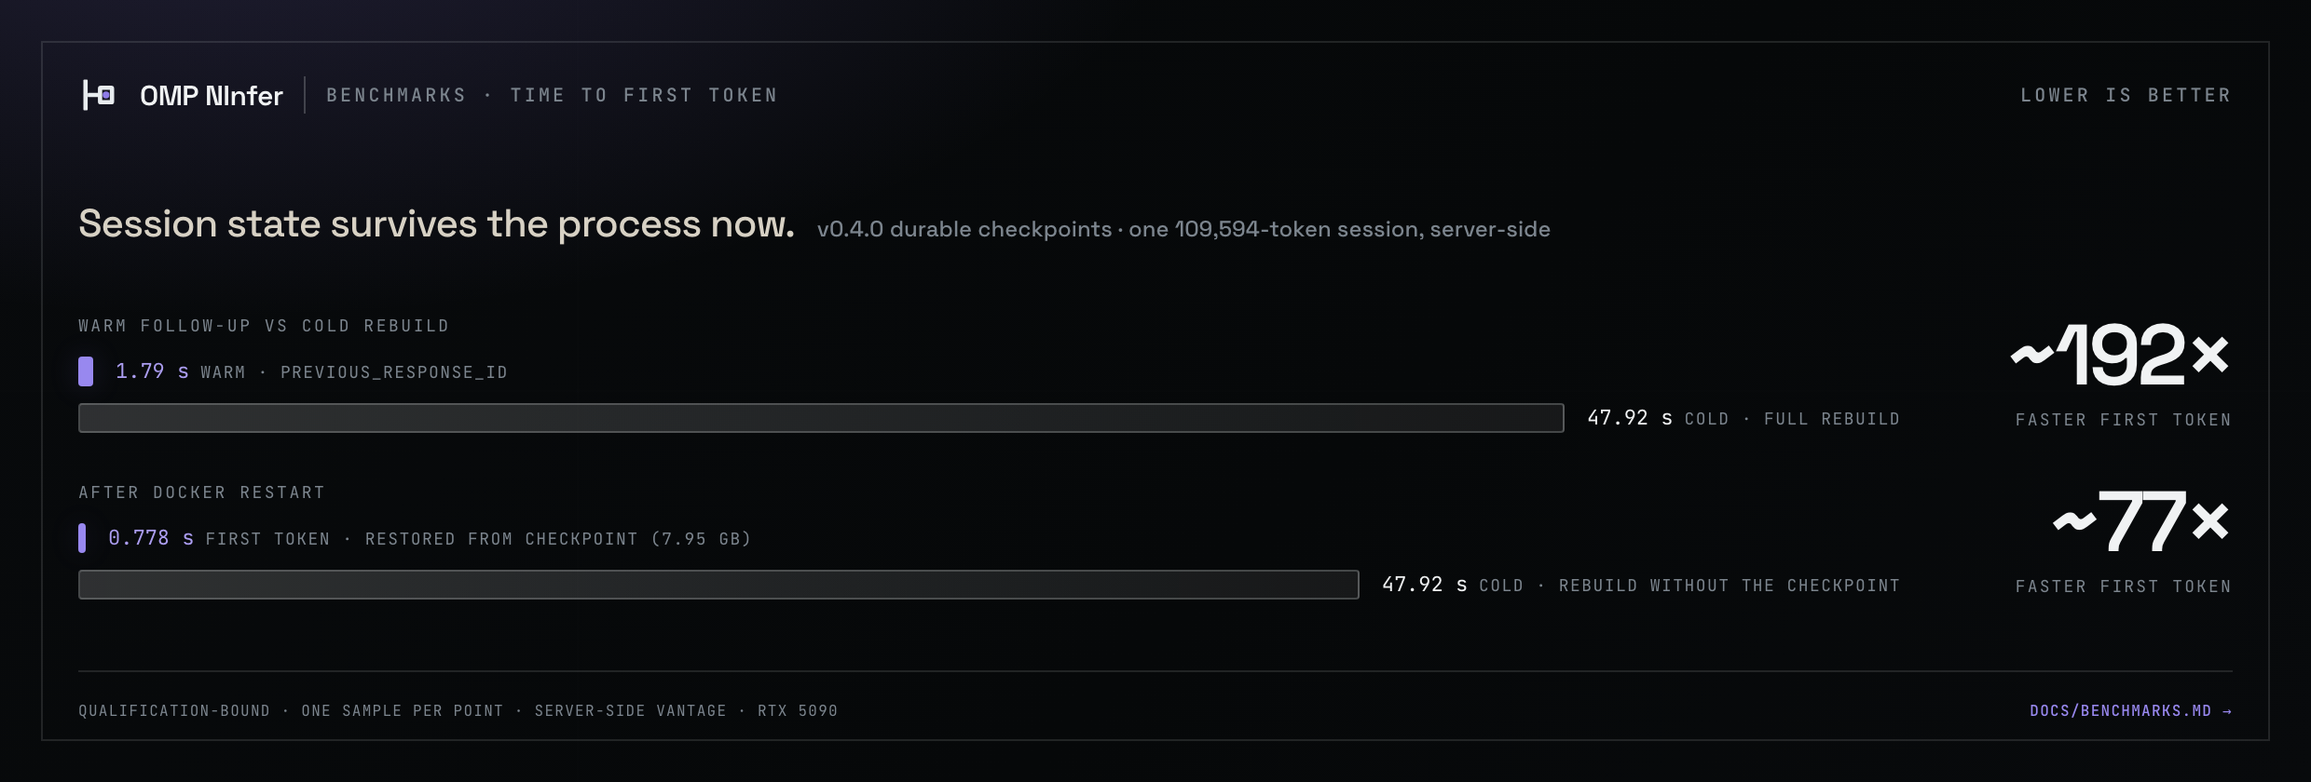
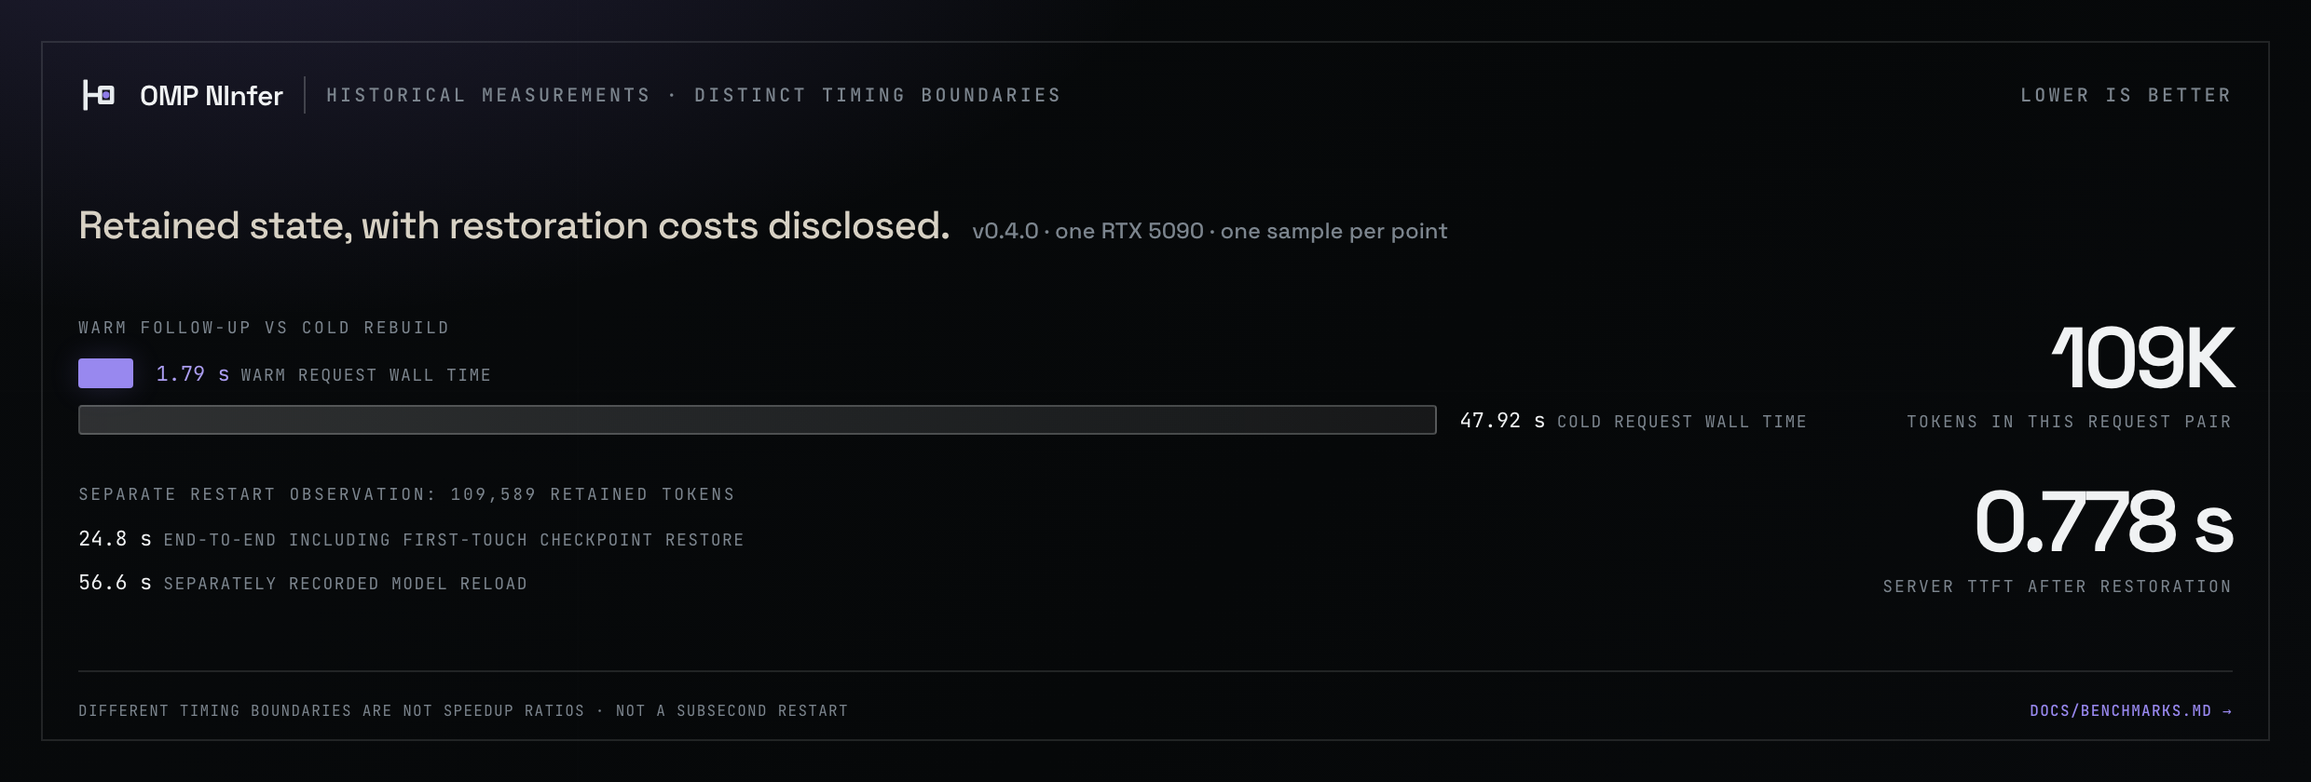
fix(docs): correct upstream issue links, site retrieval labels, and chart renders (#153)

diff --git a/site/index.html b/site/index.html
@@ -115,7 +115,7 @@
         <p class="eyebrow">Measured, not estimated</p>
         <h2>Three lanes, each bound to exact bytes and a receipt.</h2>
       </div>
-      <p>Every number names its release, hardware lane, and measurement boundary. Retrieval figures are fresh-process cold starts; decode figures are the lane's own qualification gate, never an ordinary in-process cached follow-up.</p>
+      <p>Every number names its release, hardware lane, and measurement boundary. RTX 5090 retrieval is a cold start that reused no cached prefix; native retrieval figures are each lane's long-session gate. Decode figures are the lane's own qualification gate, never an ordinary in-process cached follow-up.</p>
     </div>
     <table class="measured">
       <thead>
@@ -130,13 +130,13 @@
         </tr>
         <tr>
           <td class="first"><span class="lane">RTX 4090</span><span class="tag">native Windows 11 · runtime <span class="nowrap">v0.8.0-qwen38-4090-beta.2</span> · DFlash2 draft window 7 · INT8 KV · C1 · model 81f924d4</span></td>
-          <td data-label="Exact 130,048-token retrieval"><span class="num">83.54<small>s</small></span><span class="sub">cold start</span></td>
+          <td data-label="Exact 130,048-token retrieval"><span class="num">83.54<small>s</small></span><span class="sub">long-session gate</span></td>
           <td data-label="Decode"><span class="num">254.59<small>tok/s</small></span><span class="sub">C1 decode; 83.88% DFlash2 acceptance, 2,133.04 tok/s prefill</span></td>
           <td class="last" data-label="Receipt"><a class="receipt-link" href="https://github.com/alphastorm/omp-ninfer/blob/v0.17.0/releases/v0.17.0/qualification/rtx4090.json">rtx4090.json · 2026-11-03</a></td>
         </tr>
         <tr>
           <td class="first"><span class="lane">RTX 3090</span><span class="tag">native Windows 11 · runtime <span class="nowrap">v0.8.0-qwen38-3090-beta.2</span> · DFlash2 draft window 7 · INT8 KV · C2 shared pool · 350 W serving cap · model 81f924d4</span></td>
-          <td data-label="Exact 130,048-token retrieval"><span class="num">188.94<small>s</small></span><span class="sub">cold start</span></td>
+          <td data-label="Exact 130,048-token retrieval"><span class="num">188.94<small>s</small></span><span class="sub">long-session gate</span></td>
           <td data-label="Decode"><span class="num">148.70<small>tok/s</small></span><span class="sub">C1 decode; 83.88% DFlash2 acceptance, 978.72 tok/s prefill</span></td>
           <td class="last" data-label="Receipt"><a class="receipt-link" href="https://github.com/alphastorm/omp-ninfer/blob/v0.17.0/releases/v0.17.0/qualification/rtx3090.json">rtx3090.json · 2026-11-04</a></td>
         </tr>

diff --git a/assets/fonts.css b/assets/fonts.css
@@ -1,0 +1,34 @@
+/* Artwork fonts: the site's first-party latin subsets (site/fonts, OFL-1.1) at the four weights the
+   artwork uses, so headless renders need no network. */
+@font-face {
+  font-family: "Space Grotesk";
+  font-style: normal;
+  font-weight: 500;
+  font-display: swap;
+  src: url("../site/fonts/space-grotesk-latin.woff2") format("woff2");
+  unicode-range: U+0000-00FF, U+0131, U+0152-0153, U+02BB-02BC, U+02C6, U+02DA, U+02DC, U+0304, U+0308, U+0329, U+2000-206F, U+20AC, U+2122, U+2191, U+2193, U+2212, U+2215, U+FEFF, U+FFFD;
+}
+@font-face {
+  font-family: "Space Grotesk";
+  font-style: normal;
+  font-weight: 600;
+  font-display: swap;
+  src: url("../site/fonts/space-grotesk-latin.woff2") format("woff2");
+  unicode-range: U+0000-00FF, U+0131, U+0152-0153, U+02BB-02BC, U+02C6, U+02DA, U+02DC, U+0304, U+0308, U+0329, U+2000-206F, U+20AC, U+2122, U+2191, U+2193, U+2212, U+2215, U+FEFF, U+FFFD;
+}
+@font-face {
+  font-family: "JetBrains Mono";
+  font-style: normal;
+  font-weight: 400;
+  font-display: swap;
+  src: url("../site/fonts/jetbrains-mono-latin.woff2") format("woff2");
+  unicode-range: U+0000-00FF, U+0131, U+0152-0153, U+02BB-02BC, U+02C6, U+02DA, U+02DC, U+0304, U+0308, U+0329, U+2000-206F, U+20AC, U+2122, U+2191, U+2193, U+2212, U+2215, U+FEFF, U+FFFD;
+}
+@font-face {
+  font-family: "JetBrains Mono";
+  font-style: normal;
+  font-weight: 500;
+  font-display: swap;
+  src: url("../site/fonts/jetbrains-mono-latin.woff2") format("woff2");
+  unicode-range: U+0000-00FF, U+0131, U+0152-0153, U+02BB-02BC, U+02C6, U+02DA, U+02DC, U+0304, U+0308, U+0329, U+2000-206F, U+20AC, U+2122, U+2191, U+2193, U+2212, U+2215, U+FEFF, U+FFFD;
+}

diff --git a/assets/chart-warm-cold.html b/assets/chart-warm-cold.html
@@ -12,7 +12,7 @@
   .main { display: grid; grid-template-rows: auto auto auto; gap: 26px; align-content: center; }
   .title { font-size: 21px; font-weight: 500; letter-spacing: -.025em; color: var(--warm); margin-bottom: 10px; }
   .title span { color: var(--muted); font-size: 12px; margin-left: 12px; font-weight: 400; letter-spacing: 0; }
-  .session { display: grid; grid-template-columns: 1fr 150px; gap: 28px; align-items: center; }
+  .session { display: grid; grid-template-columns: 1fr 200px; gap: 28px; align-items: center; }
   .bars { display: grid; gap: 9px; }
   .label { color: var(--muted); font-family: "JetBrains Mono", monospace; font-size: 9px; letter-spacing: .14em; text-transform: uppercase; margin-bottom: 2px; }
   .row { display: flex; align-items: center; gap: 12px; }

diff --git a/assets/lockups.html b/assets/lockups.html
@@ -3,8 +3,7 @@
 <head>
 <title>OMP NInfer — lockups</title>
 <meta charset="utf-8">
-<link rel="preconnect" href="https://fonts.googleapis.com">
-<link href="https://fonts.googleapis.com/css2?family=Space+Grotesk:wght@500;600&family=JetBrains+Mono:wght@400;500&display=swap" rel="stylesheet">
+<link rel="stylesheet" href="fonts.css">
 <style>
   * { margin: 0; padding: 0; box-sizing: border-box; }
   body { background: #060809; font-family: 'Space Grotesk', system-ui, sans-serif; }

diff --git a/assets/brand.css b/assets/brand.css
@@ -1,4 +1,4 @@
-@import url("https://fonts.googleapis.com/css2?family=JetBrains+Mono:wght@400;500&family=Space+Grotesk:wght@500;600&display=swap");
+@import url("fonts.css");
 
 :root {
   --ground: #060809;

diff --git a/docs/UPSTREAM.md b/docs/UPSTREAM.md
@@ -13,7 +13,7 @@ watch manifest is [`upstream-watch.json`](../upstream-watch.json); the watch too
 | Component / upstream | Current position (v0.17.0) | Upstream base / watch head | Evidence and notes |
 | --- | --- | --- | --- |
 | `can1357/oh-my-pi` (client) | Unmodified upstream **OMP 18.18.6**, source `9058ab9d229663e229e2867824ba6df6f21e9e59`, tree `fd379b65368a20c7648d97f2c2b99cc03e019254`, release `439766193` | Upstream release [`v18.18.6`](https://github.com/can1357/oh-my-pi/releases/tag/v18.18.6) (2026-11-09) | Pins `tokenizer: qwen3` on opaque `q38-ninfer` model entries while canonical `qwen3.8-27b` entries retain inferred `qwen3`, preserves explicit `[low, medium, xhigh]` effort lists with `high`→`medium` and `off`→`low` clamps, disables automatic updates and the setup wizard explicitly in `fail-closed.yml`, retains Qwen's exact-loop guard with a 1,024-character floor on short newline-spanning cycles, and keeps default async compaction (`19,660` reserve, strict `>111,412` trigger, `13,107` unset-reserve summary cap); accepted across all five `v0.17.0` routes (`PASS 31/31 blocks on 076bbe4f, 2026-11-10`); see [client setup](QUICKSTART.md#omp-18186-client), [release notes](../releases/v0.17.0/NINFER_RELEASE_NOTES.md), and [18.18.6 review](measurements/2026-11-10-omp-18186-client-upgrade-review.json). |
-| `alphastorm/ninfer` (RTX 5090 container runtime) | `v0.7.0-qwen38-5090-beta.6`, frozen engine source `e0971faf221204047d5a4ed834e4e298740cee17` ([fork PR #101](https://github.com/alphastorm/ninfer/pull/101)) | `Neroued/ninfer` master `64d10fbf9f8e6bfc79ab0570b94674c5b9997929` | Image `7a19576b` (reused base `28857182`), server `dc86e101`, archive `d7f1ca4f` (`580,026,014` B), model `81f924d4`, kept profile `qwen38-5090-v0.13.0` (`751d22dc`), DFlash2 draft window 7 (`--lm-head-draft`), BF16 KV (146,368 automatic tokens), two requests in flight, isolated host schema 3 checkpoint directory `checkpoints-v017` mounted at `/checkpoints-v013` (strict origin auth, bounded resume/fresh admission with per-rotation fresh-window accounting for upstream [#434](https://github.com/Neroued/ninfer/issues/434), durable pressure-work waits, byte-proven durable-generation Host reclaim [#78](https://github.com/alphastorm/ninfer/issues/78), export-retirement reservation [#68](https://github.com/alphastorm/ninfer/pull/68), non-blocking export with Host `StateImage` materialization `EXP-105`), serving robustness ([#440](https://github.com/Neroued/ninfer/issues/440)/[#441](https://github.com/alphastorm/ninfer/issues/441)/[#446](https://github.com/Neroued/ninfer/issues/446)), host-side NFC/frontend rendering, deterministic bounded RDC builds (`664` build artifacts and all `3` package outputs bit-identical across a same-path double build; `12/12` RC phases in [`runtime-rc.json`](../releases/v0.17.0/qualification/runtime-rc.json) `bed3a245`), `io_uring` owned completion buffers and CQE drain barrier ([#116](https://github.com/alphastorm/omp-ninfer/issues/116)), per-position speculative metrics (schema `30`), JSON-schema output, 128-character tool names ([receipt](../releases/v0.17.0/qualification/rtx5090.json) `11fde294`). |
+| `alphastorm/ninfer` (RTX 5090 container runtime) | `v0.7.0-qwen38-5090-beta.6`, frozen engine source `e0971faf221204047d5a4ed834e4e298740cee17` ([fork PR #101](https://github.com/alphastorm/ninfer/pull/101)) | `Neroued/ninfer` master `64d10fbf9f8e6bfc79ab0570b94674c5b9997929` | Image `7a19576b` (reused base `28857182`), server `dc86e101`, archive `d7f1ca4f` (`580,026,014` B), model `81f924d4`, kept profile `qwen38-5090-v0.13.0` (`751d22dc`), DFlash2 draft window 7 (`--lm-head-draft`), BF16 KV (146,368 automatic tokens), two requests in flight, isolated host schema 3 checkpoint directory `checkpoints-v017` mounted at `/checkpoints-v013` (strict origin auth, bounded resume/fresh admission with per-rotation fresh-window accounting for upstream [#434](https://github.com/Neroued/ninfer/issues/434), durable pressure-work waits, byte-proven durable-generation Host reclaim [#78](https://github.com/alphastorm/ninfer/issues/78), export-retirement reservation [#68](https://github.com/alphastorm/ninfer/pull/68), non-blocking export with Host `StateImage` materialization `EXP-105`), serving robustness ([#440](https://github.com/Neroued/ninfer/issues/440)/[#441](https://github.com/Neroued/ninfer/issues/441)/[#446](https://github.com/Neroued/ninfer/issues/446)), host-side NFC/frontend rendering, deterministic bounded RDC builds (`664` build artifacts and all `3` package outputs bit-identical across a same-path double build; `12/12` RC phases in [`runtime-rc.json`](../releases/v0.17.0/qualification/runtime-rc.json) `bed3a245`), `io_uring` owned completion buffers and CQE drain barrier ([#116](https://github.com/alphastorm/omp-ninfer/issues/116)), per-position speculative metrics (schema `30`), JSON-schema output, 128-character tool names ([receipt](../releases/v0.17.0/qualification/rtx5090.json) `11fde294`). |
 | `alphastorm/ninfer` (RTX 4090 and RTX 3090 native Windows runtimes) | Carried RTX 4090 `v0.8.0-qwen38-4090-beta.2` (`d9b10b47`, server `ffee91bf`, config `ae27dc44`, `C1`); carried RTX 3090 `v0.8.0-qwen38-3090-beta.2` (`97a8e634`, server `15a4db46`, config `238ccad7`, `C2` over one shared 131,072-token pool, 350 W cap); shared source `a87de3613c17bced777b446fb545f872d8395ec1` | `Neroued/ninfer` master `64d10fbf9f8e6bfc79ab0570b94674c5b9997929` | Shared published model v3 `81f924d4`, **DFlash2 draft window 7** (`Q4_G64_FP16` draft MLP, host-mapped `token_embedding`, `proposal: "artifact-default"`), INT8 KV, `Group64` A8 and FP32 head logits off, 1,024-token prefill chunk, two extra device-state slots, shared Host budgets (`15,747.734375 MiB` / `16,512,696,320` B on RTX 4090; `20,867.734375 MiB` / `21,881,405,440` B on RTX 3090), `640` / `768 MiB` admission headroom, `30 s` / `180 s` pending timeouts, strict-origin schema 3 checkpoints (`session-checkpoints-v3`), JSON-schema output, 128-character tool names, CycloneDX 1.5 dependency SBOMs, unreadable repair-census refusal ([#63](https://github.com/alphastorm/ninfer/pull/63)), paused-owner power restoration before uninstall ([#65](https://github.com/alphastorm/ninfer/pull/65)), carried zero-difference 1,120-prompt quality screens, no-regression speed gates vs published `beta.1` (`1.0003` / `0.9988` on RTX 3090; `0.9996` / `0.9989` on RTX 4090), and `3/3` `v0.8.0-beta.1` running-upgrade, forced-rollback, and repair rehearsals per lane ([RTX 4090](../releases/v0.17.0/qualification/rtx4090.json) `254167f2`, [RTX 3090](../releases/v0.17.0/qualification/rtx3090.json) `b742870e`, [`receipt-audit.json`](../releases/v0.17.0/qualification/receipt-audit.json) `c137388a`; in `v0.17.0` acceptance on `076bbe4f`, RTX 4090 campaign and public install passed while RTX 3090's post-route `native-probes` compaction campaign failed under retained-context pressure and is waived in [`rtx3090-route-waiver.json`](../releases/v0.17.0/qualification/rtx3090-route-waiver.json) `19f2c0ef` with lead recovery `fabb50de`). |
 | `Neroued/ninfer` (engine watch) | Shipped container and native runtime base `64d10fbf` in `v0.13.0`–`v0.17.0` (RTX 5090 `v0.7.0-qwen38-5090-beta.6` release source `F3` `e0971faf` and carried native `v0.8.0-beta.2` source `a87de361` in `v0.17.0`; unified at `a87de361` in `v0.16.2`) | Master `77c2e5e2` (2026-11-07, 291 commits after `64d10fbf`, 63 after `a754fcf3` / 62 commit objects in the compare payload; `dev` == `master`; [2026-11-10 watch](measurements/2026-11-10-upstream-watch.json), earlier `a754fcf3` on 2026-11-02 and `1882c6ad` / `b57eaddc` in the [2026-10-29 watch](measurements/2026-10-29-upstream-watch.json)) | **Full re-port to `a754fcf3` / `77c2e5e2` remains deferred** (`9/228` commits apply cleanly in a per-commit merge-tree probe against `a87de361` at `a754fcf3`, estimated 7–10 multi-agent days, low value for dense 27B today); across `a754fcf3..77c2e5e2`, only `77c2e5e2` (+ PR [`#443`](https://github.com/Neroued/ninfer/pull/443), closing [`#434`](https://github.com/Neroued/ninfer/issues/434) on 2026-11-07) is adopt-now for the dense 27B product (shipped with bounded fresh-admission rotation [`#97`](https://github.com/alphastorm/ninfer/pull/97), serve robustness and stop/join split [`#98`](https://github.com/alphastorm/ninfer/pull/98), host NFC boundary normalization [`#96`](https://github.com/alphastorm/ninfer/pull/96), default-off prefill pacing [`#95`](https://github.com/alphastorm/ninfer/pull/95), and council remediation [`#101`](https://github.com/alphastorm/ninfer/pull/101) in RTX 5090 `v0.7.0-qwen38-5090-beta.6` from release source `F3` `e0971faf` = integration `F` `a3fa0550` [`#99`](https://github.com/alphastorm/ninfer/pull/99) + `#101` in `omp-ninfer` `v0.17.0`, published 2026-11-10; [2026-11-05 receipt](measurements/2026-11-05-p19-flash-next-and-starvation.json)), while the `5` `BF16` linear retunes (`a1ac2ae3`, `a18bb379`, `b3902de4`, `6321a8f3`, `9f274245`) and the Spark `Q4` draft-head staging commit (`5ea2ce50`) stay on watch and the remaining `MXFP8` / `Block-FP8` / `NVFP4` / MoE / Spark / `FP4-Local` (`d49b9af7`, `7fdc0eca`) commits do not apply; remedies for all four shipped-fork defects — [`#446`](https://github.com/Neroued/ninfer/issues/446), [`#440`](https://github.com/Neroued/ninfer/issues/440), and [`#441`](https://github.com/Neroued/ninfer/issues/441) in `#98`, plus [`#402`](https://github.com/Neroued/ninfer/issues/402)/[`#403`](https://github.com/Neroued/ninfer/pull/403) expected-$O(1)$ `unordered_set` removed-handle `recovery_loss.h` membership (`246,768 → 224` comparisons at `32` removed / `256` survivors) in `#97` — shipped on the RTX 5090 lane in `F3` `e0971faf` (`v0.17.0`), while only the carried native `v0.8.0-beta.2` runtimes remain on `a87de361`. Downstream qualification is bound in [`releases/v0.17.0/qualification.json`](../releases/v0.17.0/qualification.json) (and [`releases/v0.16.2/qualification.json`](../releases/v0.16.2/qualification.json)). |
 | `Neroued/ninfer` (Qwen 4 feature watch) | Research only; no source adoption | `feat/qwen4-27b-ops` at `e1874e94` (2026-10-29; unchanged on 2026-11-10), 204 commits after shipped base `64d10fbf` | [2026-11-10 watch](measurements/2026-11-10-upstream-watch.json) and [2026-10-29 watch](measurements/2026-10-29-upstream-watch.json) list all 204 commits (`unknown-truncated` at 300 files). `Qwen4-27B` has no public weights as of 2026-11-10; this branch watch does not change the shipped Qwen3.8 model or engine pins. |
@@ -254,7 +254,7 @@ release `439766193`; [18.15.0→18.18.6 review](measurements/2026-11-10-omp-1818
 fresh-window accounting (upstream [#434](https://github.com/Neroued/ninfer/issues/434)), durable
 pressure-work waits, serving robustness for malformed tool arguments, template-aware effort
 normalization, request-local numerical failures, and stop/drain final-save ordering (upstream
-[#440](https://github.com/Neroued/ninfer/issues/440)/[#441](https://github.com/Neroued/ninfer/issues/441)/[#446](https://github.com/alphastorm/ninfer/issues/446)),
+[#440](https://github.com/Neroued/ninfer/issues/440)/[#441](https://github.com/Neroued/ninfer/issues/441)/[#446](https://github.com/Neroued/ninfer/issues/446)),
 and host-side NFC/frontend rendering, using isolated host checkpoint directory `checkpoints-v017`
 mounted at `/checkpoints-v013`. Fresh `2026-11-10` acceptance on candidate `076bbe4f` passed all
 five documented routes (`31/31` blocks), three stock `18.18.6` clients, the **408.213 s** RTX 5090

diff --git a/BRAND.md b/BRAND.md
@@ -92,7 +92,8 @@ Space Grotesk 500/600 (headings, wordmark, −0.015em) + JetBrains Mono 400/500
 (eyebrows, stats, paths; labels 10–12px uppercase, letter-spacing 0.1–0.2em).
 Webfonts on marketing surfaces only. The public site self-hosts latin subsets of both faces as
 first-party assets (`site/fonts/`, variable weight, OFL-1.1 license texts beside the files) and
-loads nothing remote; artwork sources still import them from Google Fonts at render time only.
+loads nothing remote; artwork sources load the same files through `assets/fonts.css` at the four
+weights above, so headless renders need no network and repeat byte for byte.
 Body text on the site stays on the system sans stack.
 
 Composition is editorial, not dashboard-like: one message wins the first read, one proof wins the
@@ -143,6 +144,7 @@ imply official partnership.
 | `assets/lockup-x.png` / `lockup-x-light.png` | OMP × NInfer alternate, transparent @2x |
 | `assets/lockups.html` | lockup source |
 | `assets/brand.css` | shared tokens for exported artwork: the `.sheet` scope (BRAND token values, 18 px type floor) for the banner, social preview, architecture figure, and receipts figure; the framed `.canvas` rules stay for the historical benchmark charts |
+| `assets/fonts.css` | `@font-face` rules for exported artwork: the site's latin subsets in `site/fonts/` at Space Grotesk 500/600 and JetBrains Mono 400/500; `brand.css` and `lockups.html` load it |
 | `assets/banner.html` | README banner source (1280×320): category, headline, tagline, the restart figure (the process stops and restarts, the session continues through a checkpoint), status strip; no release version |
 | `assets/banner.png` | rendered banner @2x (2560×640); the README links it to the quickstart |
 | `assets/og.html` | GitHub social preview source (1280×640): the banner's composition at link-card scale; no release version |

diff --git a/CHANGELOG.md b/CHANGELOG.md
@@ -7,6 +7,22 @@ and this project adheres to [Semantic Versioning](https://semver.org/spec/v2.0.0
 
 ## [Unreleased]
 
+### Fixed
+
+- Point the upstream `#441` and `#446` issue links in `docs/FACTS.md` and `docs/UPSTREAM.md` at
+  `Neroued/ninfer`; the `alphastorm/ninfer` URLs returned 404.
+- Stop labelling the native RTX 4090 and RTX 3090 retrieval figures on the site as cold starts: the
+  native `long_session` receipts record no prefix-cache counters, so the site names each lane's
+  long-session gate, and the `docs/BENCHMARKS.md` method says only the RTX 5090 `prefill_curve`
+  receipt records zero prefix-cache reuse.
+- Re-render the three historical benchmark charts so `scripts/render_assets.py --check` passes.
+  `chart-warm-cold.png` still showed the `~192×` and `~77×` speedup ratios its source dropped on
+  2026-09-18; it now shows the separate timing boundaries its caption describes.
+- Load the artwork fonts from the site's own font files through `assets/fonts.css` instead of
+  Google Fonts. With the network import, 3 of 60 headless renders of unchanged sources differed by
+  antialiasing, so `--check` failed at random; with the local files, 84 of 84 checks passed and
+  every committed raster, including `og.png`, renders byte for byte unchanged.
+
 ### Changed
 
 - Mark v0.17.0 as the published release across the README, quickstart banner, facts, roadmap,

diff --git a/docs/BENCHMARKS.md b/docs/BENCHMARKS.md
@@ -216,9 +216,12 @@ without repeating the full corpus comparison.
 
 ## Method
 
-- **`prefill_curve` and `long_session`:** Cold-process exact retrieval at **130,048 prompt tokens**
-  (17 completion tokens, zero prefix-cache hit) against the 131,072-token context ceiling. The gate
-  verifies exact needle output (`ORCHID=493817; COLOR=COBALT`) rather than perplexity.
+- **`prefill_curve` (RTX 5090 container) and `long_session` (native Windows):** Exact retrieval at
+  **130,048 prompt tokens** (17 completion tokens) from the same fixture against the 131,072-token
+  context ceiling. The gate verifies exact needle output (`ORCHID=493817; COLOR=COBALT`) rather than
+  perplexity. Only `prefill_curve` records the server's prefix-cache counters (zero hit tokens, so
+  its figure is a cold start); the native `long_session` receipts record wall time and the exact
+  output, not cache counters.
 - **`decode` (RTX 5090 container):** A 2,048-completion-token generation from a 118-token prompt on
   the published deployment profile, recording server-side decode throughput
   (`decode_tokens_per_second`), client-side wall throughput

diff --git a/docs/FACTS.md b/docs/FACTS.md
@@ -132,7 +132,7 @@ and are immutable after the freeze, and the publication record is this section,
   contradictory thinking/effort fields are handled, numerical failures are isolated to the failing
   request, and graceful shutdown drains cancellation and final-save work before stopping the service
   (upstream
-  [#440](https://github.com/Neroued/ninfer/issues/440)/[#441](https://github.com/Neroued/ninfer/issues/441)/[#446](https://github.com/alphastorm/ninfer/issues/446));
+  [#440](https://github.com/Neroued/ninfer/issues/440)/[#441](https://github.com/Neroued/ninfer/issues/441)/[#446](https://github.com/Neroued/ninfer/issues/446));
   and optional prefill pacing remains default off. Both RTX 5090 (`e0971faf`) and carried native
   `beta.2` (`a87de361`) include byte-proven durable-generation Host reclaim before export refusal
   ([fork #78](https://github.com/alphastorm/ninfer/issues/78),
